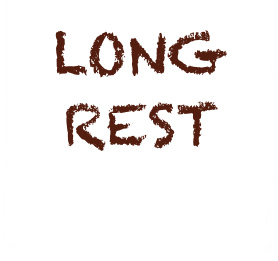
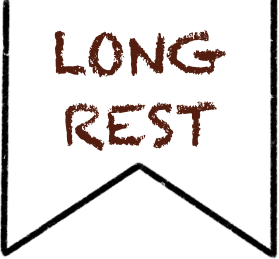
Dynamic Sheet items set with some css changes.

Changed region(s): [[0.0, 0.0, 1.0, 1.0], [0.1727, 0.0927, 0.8345, 0.3089], [0.2302, 0.3707, 0.777, 0.5869]]

diff --git a/src/pages/characterSheet.js b/src/pages/characterSheet.js
@@ -4,41 +4,86 @@ import characterSelection from '../assets/CharacterSelection.png'
 import longRestButton from '../assets/LongRestButton.png'
 import phone from '../assets/Phone.png'
 import exampleSheet from '../assets/ExampleSheet.png'
+import autopsy from '../assets/Autopsy.png'
+import DynamicDebuffsTable from './dynamicTable.js'
+import {health} from '../characterStats/characterA.js'
 
 const CharacterSheet = () => {
-      const [count, setCount] = useState(0)
+    const [countHP, setCountHP] = useState(health);
+    const [countSpellPoints, setCountSpellPoints] = useState(0);
 
     return (
         <div>
-        <div class="characterSheetHeader">
-            <img class = "headerCharacterSelectionButton" src={characterSelection} alt="CharacterSelection" onClick={() => window.location = '/characterSelection'}></img>
-            <img class = "headerLongRestButton" src={longRestButton} alt="LongRestButton" onClick={() => alert("Long Rest Taken!")}></img>
+        <div className="characterSheetHeader">
+            <img className = "headerCharacterSelectionButton" src={characterSelection} alt="CharacterSelection" onClick={() => window.location = '/characterSelection'}></img>
+            <img className = "headerLongRestButton" src={longRestButton} alt="LongRestButton" onClick={() => alert("Long Rest Taken!")}></img>
         </div>
-        <div class="characterSheetPage">
-            <div class="characterSheetPhone">
-                <img class = "phone" src={phone} alt="Phone"></img>
+        <div className="characterSheetPage">
+            <div className="characterSheetPhone">
+                <img className = "phone" src={phone} alt="Phone"></img>
             </div>
-            <div class="characterSheetSheet">
-                <div class="characterSheetModStats">
-                    <div class="characterSheetHP, column">
-                        <h3>Current Hit Points</h3>
-                        <button type="button" className="hpCounterUp" onClick={() => setCount((count) => count + 1)}>
-                                +
-                        </button>
-                        <h4>{count}</h4>
-                        <button type="button" className="hpCounterDown" onClick={() => setCount((count) => count - 1)}>
-                                -
-                        </button>
+            <div className="characterSheetSheet">
+                <div className="characterSheetModStats, table">
+                    <div className="characterSheetAutopsy">
+                            <img className = "autopsyImage" src={autopsy} alt="Autposy"></img>
                     </div>
-                    <div class="column">
-                            2
+                    <div className="characterSheetInteractive">
+                        <div className = "row">
+                            <div className="interactiveCounterBox">
+                                <h3>Current Hit Points</h3>
+                                <button type="button" className="hpCounterDown, counter" onClick={() => setCountHP((countHP) => countHP - 1)}>
+                                        -
+                                </button>
+                                <h4>{countHP}</h4>
+                                <button type="button" className="hpCounterUp, counter" onClick={() => setCountHP((countHP) => countHP + 1)}>
+                                        +
+                                </button>
+                            </div>
+                        </div>
+                        <div className = "row">
+                            <div className="interactiveCounterBox">
+                                <h3>Current Spell Points</h3>
+                                <button type="button" className="counter" onClick={() => setCountSpellPoints((countSpellPoints) => countSpellPoints - 1)}>
+                                        -
+                                </button>
+                                <h4>{countSpellPoints}</h4>
+                                <button type="button" className="counter" onClick={() => setCountSpellPoints((countSpellPoints) => countSpellPoints + 1)}>
+                                        +
+                                </button>
+                            </div>
+                        </div>
+                        <div className = "row">
+                            <div className="interactiveCounterBox">
+                                <table>
+                                    <thead>
+                                        <tr>
+                                            <th colSpan="4"><h3>Death Saves</h3></th>
+                                        </tr>
+                                    </thead>
+                                    <tbody>
+                                        <tr>
+                                            <td>Successes</td>
+                                            <td><input className="checkbox" type="checkbox"></input></td>
+                                            <td><input className="checkbox" type="checkbox"></input></td>
+                                            <td><input className="checkbox" type="checkbox"></input></td>
+                                        </tr>
+                                        <tr>
+                                            <td>Failures</td>
+                                            <td><input className="checkbox" type="checkbox"></input></td>
+                                            <td><input className="checkbox" type="checkbox"></input></td>
+                                            <td><input className="checkbox" type="checkbox"></input></td>
+                                        </tr>
+                                    </tbody>
+                                </table>
+                            </div>
+                        </div>
                     </div>
-                    <div class="column">
-                            3
+                    <div className="characterSheetDebuffs">
+                        <DynamicDebuffsTable/>
                     </div>
                 </div>
-                <div class="characterSheet">
-                    <img class = "sheet" src={exampleSheet} alt="Sheet"></img>
+                <div className="characterSheet">
+                    <img className = "sheet" src={exampleSheet} alt="Sheet"></img>
                 </div>
             </div>
         </div>

diff --git a/src/pages/pages.css b/src/pages/pages.css
@@ -2,10 +2,9 @@
     --header-height: 65px;
 }
 
-@media screen and (max-width: 700px) {
+@media (max-width: 1370px) {
     .characterSheetPhone, .characterSheetSheet{   
-        flex-direction: row !important;
-        width: 100% !important;
+        width: fit-content!important;
     }
     .column {
         width: 100%;
@@ -37,7 +36,7 @@
     background-color: #6e1212;
     display: flex;
     flex-wrap: wrap;
-    justify-content: space-between;
+    justify-content: center;
     max-height: fit-content;
     align-items: start;
     padding: 10px;
@@ -88,43 +87,131 @@
 
 .characterSheetSheet{
     height: 100%;
-    max-width: 1320px;
     width: 65%;
-    display: flex;
-    flex-wrap: wrap;
+    display: grid;
     justify-content: center;
 }
 
 .characterSheetModStats{
-    height: 400px;
-    max-height: 45%;
-    background-color: darkgreen;
-    width: 100%;
-    display: flex;
-    justify-content: center;
+    min-height: 400px;
+    height: fit-content;
 }
 
-.characterSheetModStats::after{
+.table{
+    width: 100%;
+    display: flex;
+    justify-content: space-evenly;
+    align-items: center
+}
+
+.table::after{
     content: "";
     display: table;
     clear: both;
 }
 
-.column {
-    float: left;
-    width: 33.33%;
-    padding: 10px;
-    height: 100%;
-    background-color: aqua;
+.characterSheetAutopsy{
+    align-content: center;
+    justify-content: center;
+    width: fit-content;
 }
 
-.characterSheetHP{
-    
+.autopsyImage{
+    height: 100%;
+    max-height: 440px;
+    border: solid;
+    border-color: black;
+    border-radius: 2px;
+}
+
+.characterSheetInteractive{
+    width: min-content;
+}
+
+.row h3{
+    width: 100%;
+    justify-self: center;
+    text-align: center;
+    height: 40%;
+}
+
+.interactiveCounterBox{
+    display: inline-flex;
+    flex-wrap: wrap;
+    justify-content: space-evenly;
+    border-color: black;
+    border-radius: 2px;
+    border: solid;
+    background-color: white;
+    width: 100%;
+    margin-bottom: 4px;
+}
+
+.counter{
+    width: 50px;
+    height: 50px;
+    background-color: white;
+    margin: 10px;
+}
+
+table{
+    width: 100%;
+    text-align: left;
+    padding-left: 8px;
+    padding-right: 8px;
+    padding-bottom: 8px;
+    justify-content: space-between;
+}
+
+th{
+    text-align: center;
+}
+
+td{
+    font-size: 1em;
+    margin-top: 1.33em;
+    margin-bottom: 1.33em;
+    margin-left: 0;
+    margin-right: 0;
+    font-weight: bold;
+    padding: 4px;
+}
+
+.checkbox{
+    height: 20px;
+    width: 20px;
+    background-color: #eee;
+}
+
+.checkbox:hover{
+    cursor: pointer;
+}
+
+.characterSheetDebuffs{
+    background-color: white;
+    height: 100%;
+    max-height: 440px;
+    border: solid;
+    border-color: black;
+    border-radius: 2px;
+}
+
+.container {
+  display: grid;
+  grid-template-columns: repeat(auto-fill, minmax(100px, 1fr));
+  gap: 10px;
+}
+.item {
+  background: #f0f0f0;
+  padding: 20px;
 }
 
 .characterSheet{
-    max-height: 50%;
-    height: 400px;
+    max-height: 400px;
+    height: fit-content;
     overflow-x: scroll;
-    justify-content: center;
+    width: fit-content;
+    border: solid;
+    border-color: black;
+    border-radius: 2px;
 }

diff --git a/src/pages/dynamicTable.js b/src/pages/dynamicTable.js
@@ -1,0 +1,29 @@
+import React from "react";
+import {debuffs} from '../characterStats/characterA.js'
+
+const DynamicDebuffsTable = () => {
+
+    return (
+        <table>
+            <thead>
+                <tr>
+                    <th colSpan="4"><h3>Debuffs</h3></th>
+                </tr>
+            </thead>
+            <tbody>
+                {debuffs.map((debuff, index) => {
+                    return(
+                        <tr key={index}>
+                            <td key={debuff.time}>{debuff.time}</td>
+                            <td key={debuff.bodyPlacement}>{debuff.bodyPlacement}</td>
+                            <td key={debuff.affect}>{debuff.affect}</td>
+                            <td key={debuff.penalty}>{debuff.penalty}</td>
+                        </tr>
+                    );
+                })}
+            </tbody>
+        </table>
+    );
+};
+
+export default DynamicDebuffsTable;

diff --git a/src/characterStats/characterA.js b/src/characterStats/characterA.js
@@ -1,0 +1,6 @@
+export const debuffs = [
+    { time: "12:00:00", bodyPlacement: 'Ankle', affect: 'Speed Reduction', penalty: -2 },
+    { time: "6:50:00", bodyPlacement: 'Ankle', affect: 'Dex Reduction', penalty: -2 }
+];
+
+export const health = 5;
